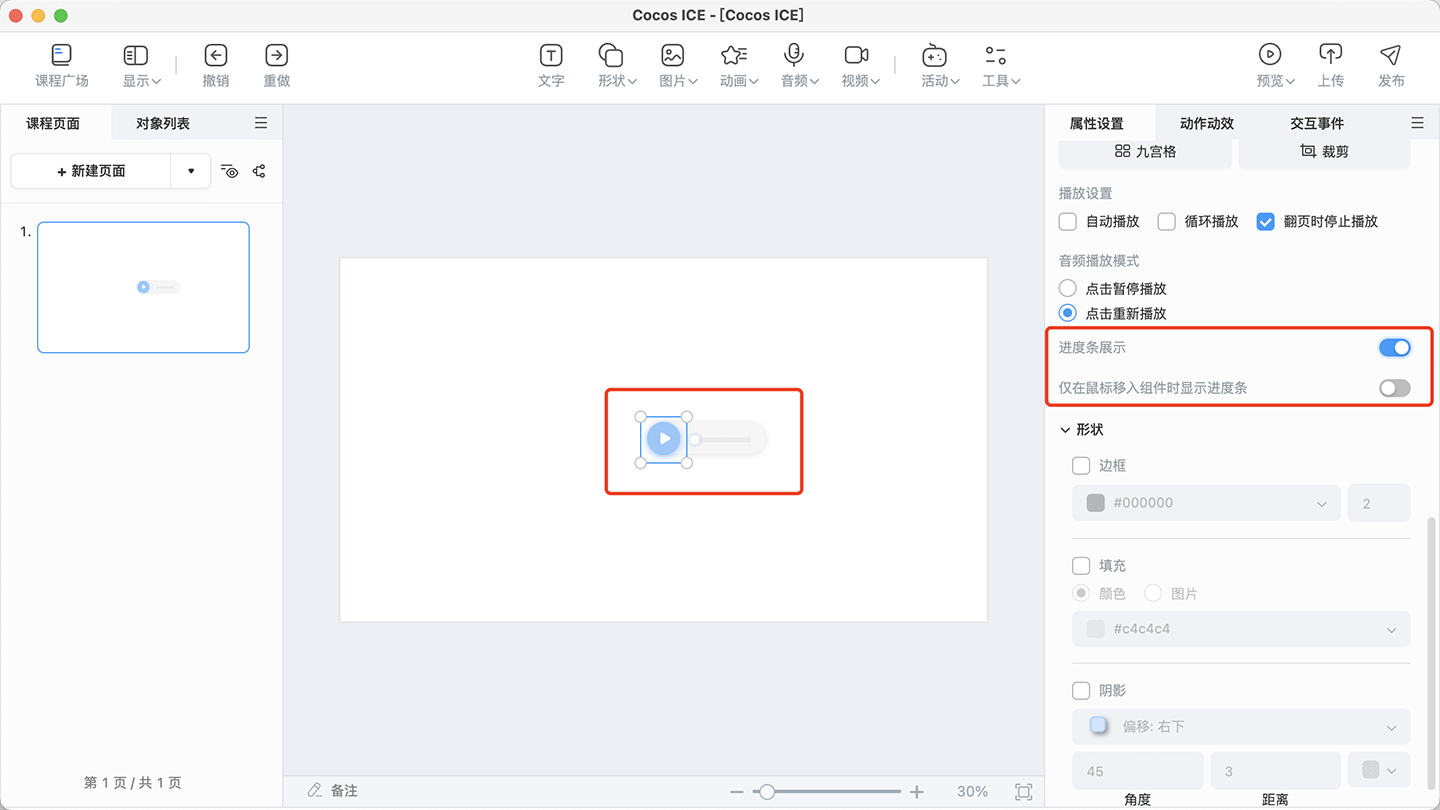
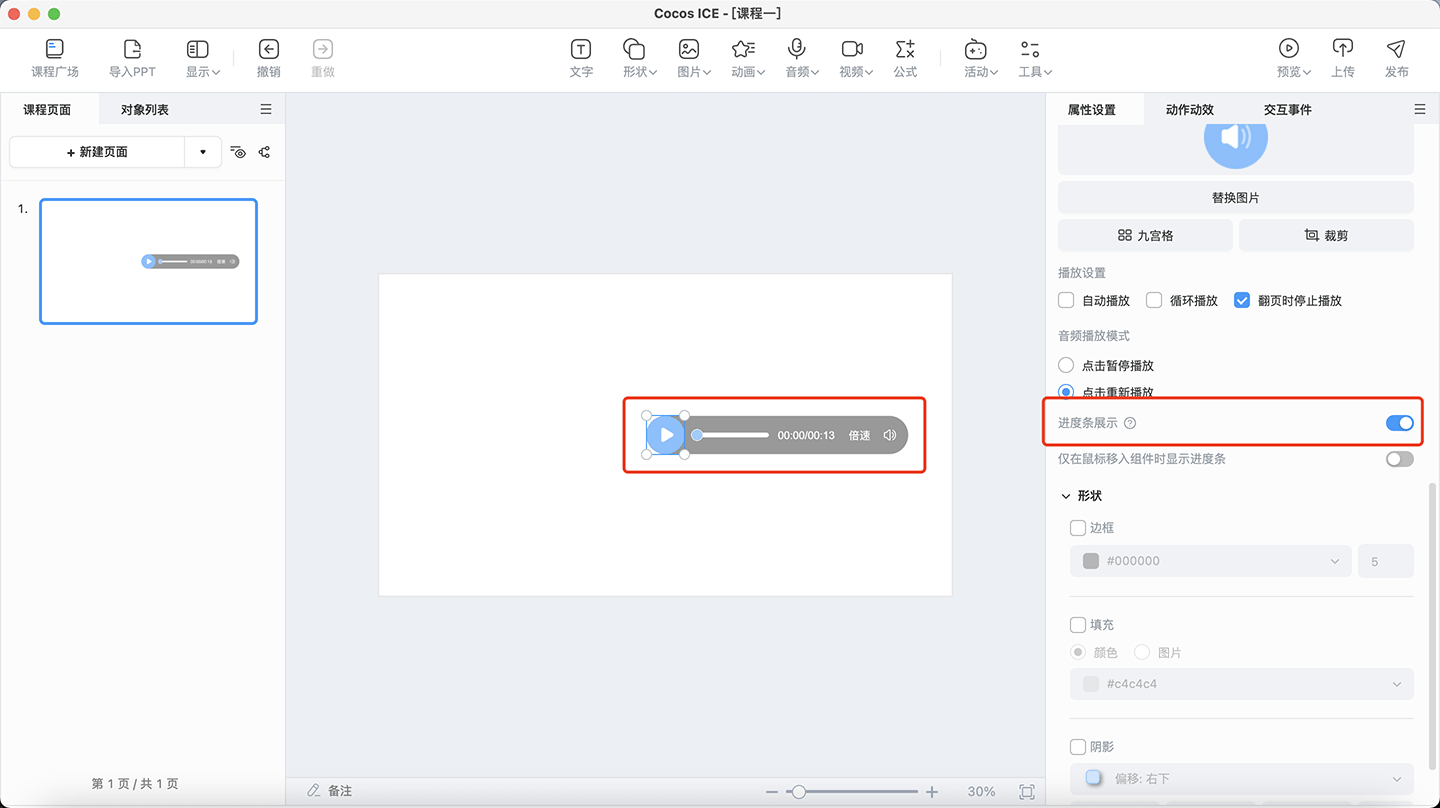
更新音频、公式、预览支持学生端教师端功能、新增动效

diff --git a/zh/getting-started/preview/index.md b/zh/getting-started/preview/index.md
@@ -8,34 +8,34 @@
 
 点击 **预览** 后，会进入预览页面，如下图所示。
 
-![预览界面](img/preview.png)
+![预览界面](../../img/Preview.png)
 
 1. **预览仿真设备选择**:点击界面左下角的选择框，可以选择不同仿真设备，查看不同设备分辨率下该课程的预览情况，默认为课件原始分辨率，如果用户选择过预览仿真设备，下次预览默认为该设备分辨率。
 
     ![预览仿真设备选择](img/resolution.png)
 
-2. **旋转**：点击 **旋转** 按钮，便可让预览画面进行横竖屏的切换。
+2. **旋转**：点击 **旋转** ![旋转](img/rotate.png) 按钮，便可让预览画面进行横竖屏的切换。
 
-    ![旋转](img/rotate.png)
+3. **教师端/学生端切换**：在这里可以对预览的画面进行教师端和学生端的切换。选择学生端，则预览的是学生端的画面；选择教师端，则预览的是教师端的画面。该功能主要用于多端教学场景，详见 [多端控制配置](../../developer/configure/multi-terminal/index.md)。
 
-3. **快捷翻页**：在这里可以点击对应页数或者翻页按钮，进行快捷翻页的操作。
+    ![多端控制](img/control.png)
+
+4. **快捷翻页**：在这里可以点击对应页数或者翻页按钮，进行快捷翻页的操作。
 
     ![快捷翻页](img/pageturning.png)
 
-4. **全屏和原始尺寸预览**：在默认情况下，预览画面是以当前设置的课件原始分辨率进行全屏的展示，如下图所示。
+5. **全屏和原始尺寸预览**：在默认情况下，预览画面是以当前设置的课件原始分辨率进行全屏的展示，如下图所示。
 
     ![默认预览](img/default.png)
 
     > **注意**：企业可自定义设定编辑器的原始分辨率，详见 [分辨率配置](../../developer/configure/resolution/index.md) 文档。
 
-    - 当画面在全屏预览状态下，则按钮会变成 **原始尺寸** 状态；当画面在原始分辨率预览状态下，则按钮会变成 **全屏** 状态。点击按钮，便可以让预览画面进行原始分辨率或者全屏的预览。
+    - 当画面在全屏预览状态下，则按钮会变成 **原始尺寸** ![原始尺寸](img/originalsize.png) 状态；当画面在原始分辨率预览状态下，则按钮会变成 **全屏** ![全屏](img/fullscreen.png) 状态。点击按钮，便可以让预览画面进行原始分辨率或者全屏的预览。
 
-        ![全屏或原始分辨率预览](img/fullscreen.png)
-
-5. **二维码预览**：点击 **二维码预览** 按钮，便会出现预览二维码，用户可以通过扫描二维码，在手机上进行课程的预览。
+6. **二维码预览**：点击 **二维码预览** 按钮，便会出现预览二维码，用户可以通过扫描二维码，在手机上进行课程的预览。
 
     ![二维码预览](img/QRcode.png)
 
-6. **上传和发布**：点击 **上传** 和 **发布** 按钮，便可进行课程上传和发布的操作。
+7. **上传和发布**：点击 **上传** 和 **发布** 按钮，便可进行课程上传和发布的操作。
 
     ![上传和发布](img/publish.png)

diff --git a/zh/tools/object/audio/index.md b/zh/tools/object/audio/index.md
@@ -2,13 +2,25 @@
 
 ## 插入音频
 
-音频目前支持本地或素材库插入 Web 原生支持的格式，包括 **mp3**、**wav**、**mp4**、**m4a**，云端素材库的音频需要先点击下载，再次点击后才能插入到场景中。
+- 音频目前支持本地或素材库插入 Web 原生支持的格式，包括 **mp3**、**wav**、**mp4**、**m4a**，云端素材库的音频需要先点击下载，再次点击后才能插入到场景中。
 
-![插入音频](img/source.png)
+    ![插入本地、素材库音频](img/source.png)
+
+- 音频还支持插入录音音频和语音合成音频。
+
+    ![创建音频](img/creataudio.png)
+
+    - 录音：提供录制音频的功能，支持将录制的音频文件插入到 ICE 里。
+
+        ![录音](img/recordaudio.png)
+
+    - 语音合成：提供语音合成的功能，支持将文字转化为语音，并插入到 ICE 里。
+
+        ![语音合成](img/voice.png)
 
 ## 编辑音频
 
-选中音频对象，可以在右侧属性面板进行音频对象的编辑操作，包括 **替换音频**、**录制音频**、**裁剪音频**、**音频默认图片**、**播放状态图片**、**音频播放设置**、**音频播放模式**、**音频进度条展示** 以及 **音频形状属性设置**。
+选中音频对象，可以在右侧属性面板进行音频对象的编辑操作，包括 **替换音频**、**音频倍速设置**、**裁剪音频**、**音频默认图片**、**播放状态图片**、**音频播放设置**、**音频播放模式**、**音频进度条展示** 以及 **音频形状属性设置**。
 
 ![音频属性](img/audio.png)
 
@@ -16,9 +28,9 @@
 
     ![替换音频](img/changeaudio.png)
 
-- **录制音频**：可以通过录制音频的方式，对当前的音频进行替换。
+- **音频倍速设置**：可以设置音频的默认播放倍速。
 
-    ![录制音频](img/recordaudio.png)
+    ![音频倍速](img/audiospeed.png)
 
 - **裁剪音频**：可以通过拖动首尾滑动条以及输入需要裁剪的时间，对当前音频的长度进行裁剪操作。
 

diff --git a/zh/developer/configure/object/properties/index.md b/zh/developer/configure/object/properties/index.md
@@ -48,26 +48,3 @@ export default class EduImage extends EduElementAbstract{
       "preset-colors": ["#000000", "#ffffff"]
     }
     ```
-
-## 多端控制配置
-
-该配置适用于 1 对 1、小班课、大班课、双师课等区分老师端和学生端的课程，可以通过配置让老师轻松控制部分内容对学生不显示。
-
-- **配置类型**：`editor` 编辑器配置信息。
-
-- **JSON 配置示例**：
-
-    ```
-    'client-mode': {
-        // 是否启用教师端可见功能
-        enable: false,
-    }
-    ```
-
-- 此时在 ICE 里面选中任意节点，就能看到仅教师端可见的开关，老师只要打开这个开关，就可以实现教师端可见的功能。
-
-- 客户端需要在启动的时候告诉运行时，当前运行的是否是教师端，如下字段为 `true` 就是运行在教师端，此时，学生端会自动隐藏上面选中的节点
-
-    ```
-    edu.eduGame.clientMode.setCustomData({isTeacherClient:true});
-    ```

diff --git a/zh/developer/configure/multi-terminal/index.md b/zh/developer/configure/multi-terminal/index.md
@@ -7,16 +7,16 @@
 - **JSON 配置示例**：
 
     ```
-    'client-mode': {
+    "client-mode": {
         // 是否启用教师端可见功能
-        enable: false,
+        "enable": false,
     }
     ```
 
 - 此时在 ICE 里面选中任意节点，就能看到仅教师端可见的开关，老师只要打开这个开关，就可以实现教师端可见的功能。
 
-- 客户端需要在启动的时候告诉运行时，当前运行的是否是教师端，如下字段为 `true` 就是运行在教师端，此时，学生端会自动隐藏上面选中的节点
+    ![教师端可见](img/teacher.png)
 
-    ```
-    edu.eduGame.clientMode.setCustomData({isTeacherClient:true});
-    ```
+- 可以在预览窗口进行学生端画面或者教师端画面的预览。
+
+    ![预览](img/preview.png)

diff --git a/zh/tools/object/index.md b/zh/tools/object/index.md
@@ -1,6 +1,6 @@
 # 基础对象
 
-基础对象包括 **文字**、**形状**、**图片**、**音频**、**视频** 和 **动画**。而 [素材库](../../resource/index.md) 则用于存放 ICE 内置的部分基础对象素材，以及各公司接入的 **图片**、**音频** 和 **视频** 素材。
+基础对象包括 **文字**、**形状**、**图片**、**音频**、**动画**、**视频** 和 **公式**。而 [素材库](../../resource/index.md) 则用于存放 ICE 内置的部分基础对象素材，以及各公司接入的 **图片**、**音频**、**动画** 和 **视频** 素材。
 
 ## 插入对象
 
@@ -33,6 +33,7 @@
 - [音频](audio/index.md)
 - [视频](video/index.md)
 - [动画](animation/index.md)
+- [公式](formula/index.md)
 
 ## 组合对象
 

diff --git a/zh/effect/index.md b/zh/effect/index.md
@@ -10,11 +10,11 @@
 
 ![添加动作动效](img/addeffect.png)
 
-- **出现动效**：目前支持弹跳、淡入、翻转、浮入、飞入以及缩放动效。用于设置对象的在编辑器的出现效果。
+- **出现动效**：目前支持出现、飞入、弹跳、淡入、翻转、浮入、缩放、字幕式、轮子以及擦除动效。用于设置对象的在编辑器的出现效果。
 
     ![出现动效](img/appear.png)
 
-- **消失动效**：目前支持淡出、浮出以及飞出动效。用于设置对象在编辑器内的消失效果。
+- **消失动效**：目前支持消失、淡出、浮出以及飞出动效。用于设置对象在编辑器内的消失效果。
 
     ![消失动效](img/disappear.png)
 

diff --git a/zh/tools/object/formula/index.md b/zh/tools/object/formula/index.md
@@ -1,0 +1,13 @@
+# 公式
+
+选中公式对象，可以在右侧的属性面板查看该公式的缩略图，也可以点击属性面板的 **编辑公式** 按钮，进行对公式对象的再次编辑。
+
+## 修改公式
+
+点击属性面板的 **编辑公式** 按钮，会打开公式编辑面板，进行对公式的编辑。
+
+![编辑公式](img/modify.png)
+
+在公式编辑的面板内，可以对选中的公式进行再次编辑和保存。
+
+![公式面板](img/panel.png)

diff --git a/zh/SUMMARY.md b/zh/SUMMARY.md
@@ -43,6 +43,7 @@
     - [分辨率配置](developer/configure/resolution/index.md)
     - [工具栏配置](developer/configure/toolbar/index.md)
     - [页面配置](developer/configure/page/index.md)
+    - [多端控制配置](developer/configure/multi-terminal/index.md)
     - [对象配置](developer/configure/object/index.md)
         - [通用配置](developer/configure/object/properties/index.md)
         - [文字配置](developer/configure/object/word/index.md)

diff --git a/zh/developer/configure/index.md b/zh/developer/configure/index.md
@@ -13,6 +13,7 @@
 - [分辨率配置](resolution/index.md)
 - [工具栏配置](toolbar/index.md)
 - [页面配置](page/index.md)
+- [多端控制配置](multi-terminal/index.md)
     - [对象配置](object/index.md)
         - [通用配置](object/properties/index.md)
         - [文字配置](object/word/index.md)

diff --git a/zh/tools/index.md b/zh/tools/index.md
@@ -22,4 +22,3 @@
 - 编辑器窗口缩小或自定义按钮较多时，工具栏会自动折叠，点击 ![更多](img/more.png) 可以显示被折叠的按钮。
 
     ![折叠按钮](img/small.png)
-
